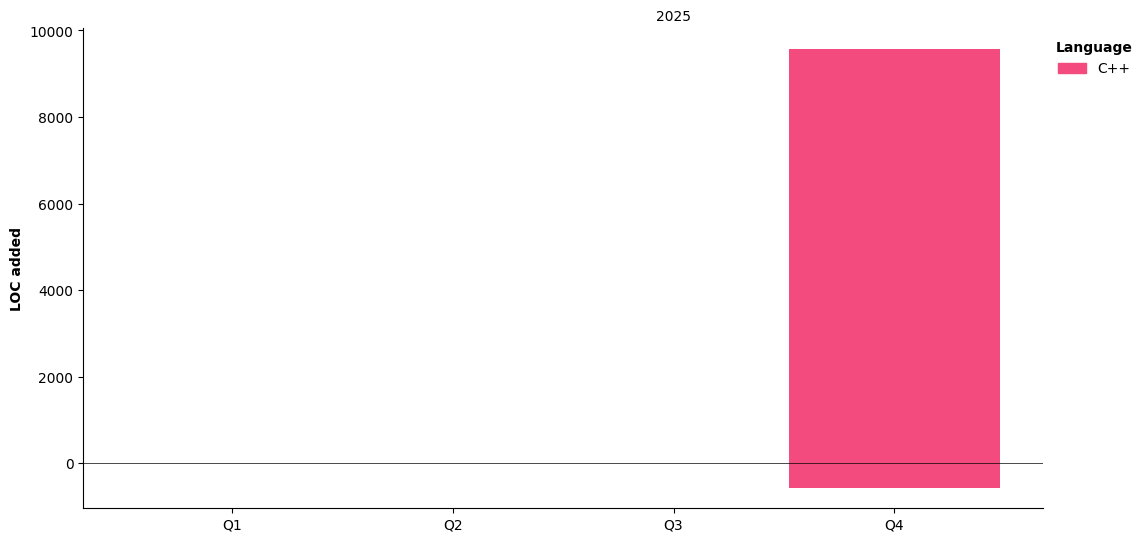
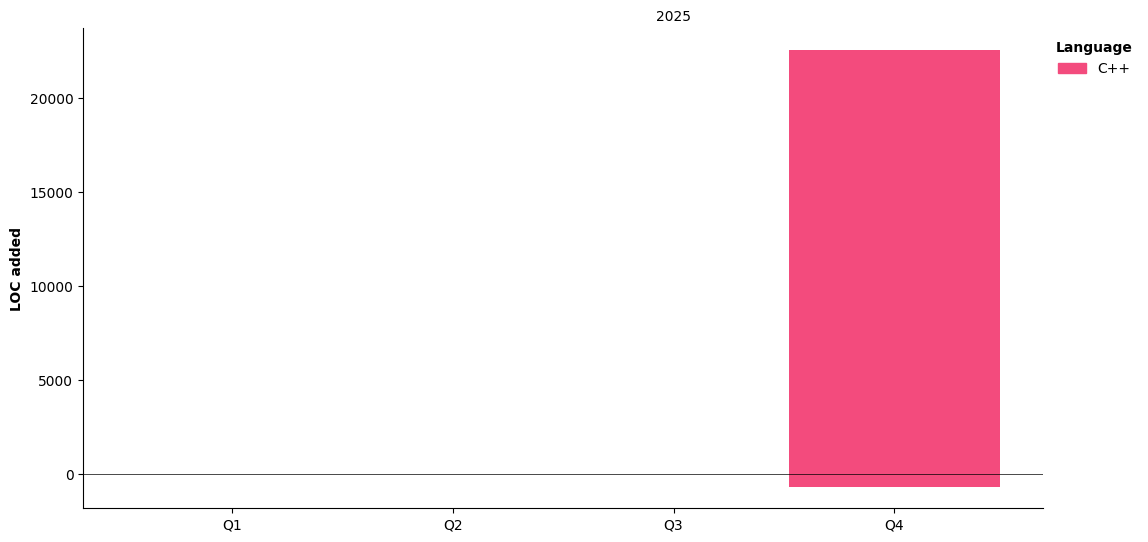
Updated with Dev Metrics

diff --git a/README.md b/README.md
@@ -7,6 +7,81 @@ Competitive Programming Weeb
 ## Stats
 
 <!--START_SECTION:waka-->
+![Code Time](http://img.shields.io/badge/Code%20Time-1%20hr%2029%20mins-blue)
+
+![Profile Views](http://img.shields.io/badge/Profile%20Views-234-blue)
+
+**🐱 My GitHub Data** 
+
+> 📦 646 Bytes Used in GitHub's Storage 
+ > 
+> 🏆 80 Contributions in the Year 2025
+ > 
+> 🚫 Not Opted to Hire
+ > 
+> 📜 5 Public Repositories 
+ > 
+> 🔑 0 Private Repositories 
+ > 
+**I'm an Early 🐤** 
+
+```text
+🌞 Morning                2 commits           █░░░░░░░░░░░░░░░░░░░░░░░░   02.67 % 
+🌆 Daytime                42 commits          ██████████████░░░░░░░░░░░   56.00 % 
+🌃 Evening                18 commits          ██████░░░░░░░░░░░░░░░░░░░   24.00 % 
+🌙 Night                  13 commits          ████░░░░░░░░░░░░░░░░░░░░░   17.33 % 
+```
+📅 **I'm Most Productive on Friday** 
+
+```text
+Monday                   0 commits           ░░░░░░░░░░░░░░░░░░░░░░░░░   00.00 % 
+Tuesday                  8 commits           ███░░░░░░░░░░░░░░░░░░░░░░   10.67 % 
+Wednesday                7 commits           ██░░░░░░░░░░░░░░░░░░░░░░░   09.33 % 
+Thursday                 22 commits          ███████░░░░░░░░░░░░░░░░░░   29.33 % 
+Friday                   23 commits          ████████░░░░░░░░░░░░░░░░░   30.67 % 
+Saturday                 13 commits          ████░░░░░░░░░░░░░░░░░░░░░   17.33 % 
+Sunday                   2 commits           █░░░░░░░░░░░░░░░░░░░░░░░░   02.67 % 
+```
 
 
+📊 **This Week I Spent My Time On** 
+
+```text
+🕑 Time Zone: Asia/Shanghai
+
+💬 Programming Languages: 
+YAML                     43 mins             ████████████░░░░░░░░░░░░░   48.73 % 
+Markdown                 26 mins             ███████░░░░░░░░░░░░░░░░░░   29.42 % 
+Git Config               12 mins             ███░░░░░░░░░░░░░░░░░░░░░░   13.52 % 
+C++                      5 mins              ██░░░░░░░░░░░░░░░░░░░░░░░   06.49 % 
+Git                      1 min               ░░░░░░░░░░░░░░░░░░░░░░░░░   01.65 % 
+
+🔥 Editors: 
+VS Code                  1 hr 29 mins        █████████████████████████   100.00 % 
+
+🐱💻 Projects: 
+GithubProfile            50 mins             ██████████████░░░░░░░░░░░   55.79 % 
+yoj                      37 mins             ██████████░░░░░░░░░░░░░░░   41.39 % 
+OJ                       1 min               ░░░░░░░░░░░░░░░░░░░░░░░░░   01.60 % 
+Workplace                1 min               ░░░░░░░░░░░░░░░░░░░░░░░░░   01.22 % 
+
+💻 Operating System: 
+WSL                      50 mins             ██████████████░░░░░░░░░░░   55.79 % 
+Windows                  39 mins             ███████████░░░░░░░░░░░░░░   44.21 % 
+```
+
+**I Mostly Code in C++** 
+
+```text
+C++                      2 repos             █████████████████████████   100.00 % 
+```
+
+
+
+**Timeline**
+
+![Lines of Code chart](https://raw.githubusercontent.com/Eitrous/Eitrous/main/assets/bar_graph.png)
+
+
+ Last Updated on 26/12/2025 12:19:36 UTC
 <!--END_SECTION:waka-->
